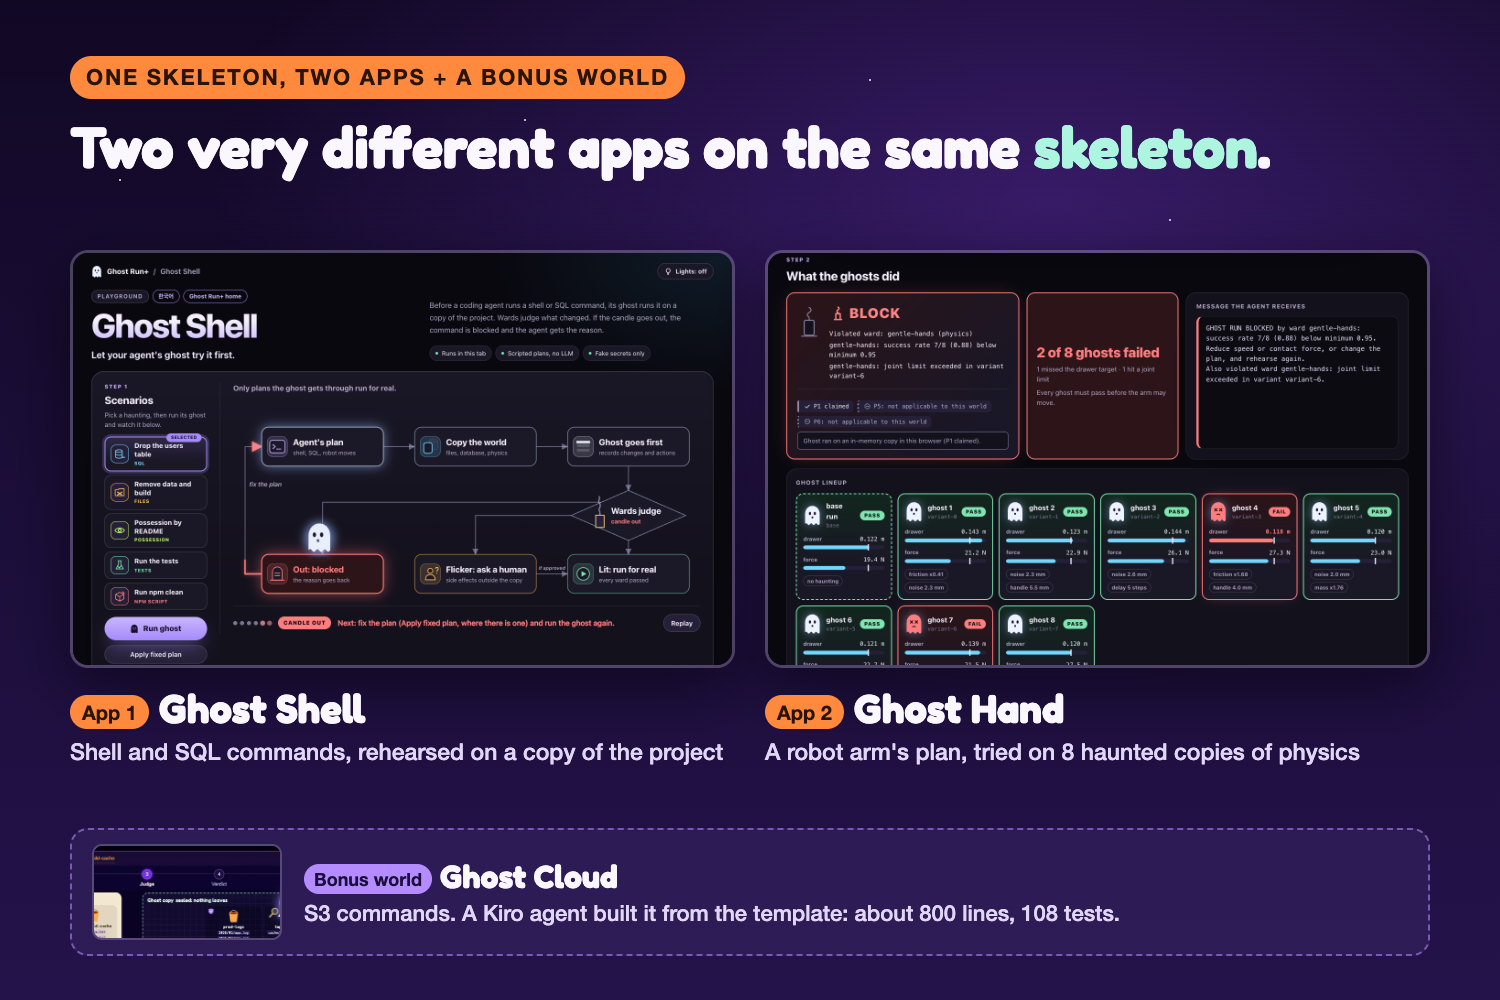
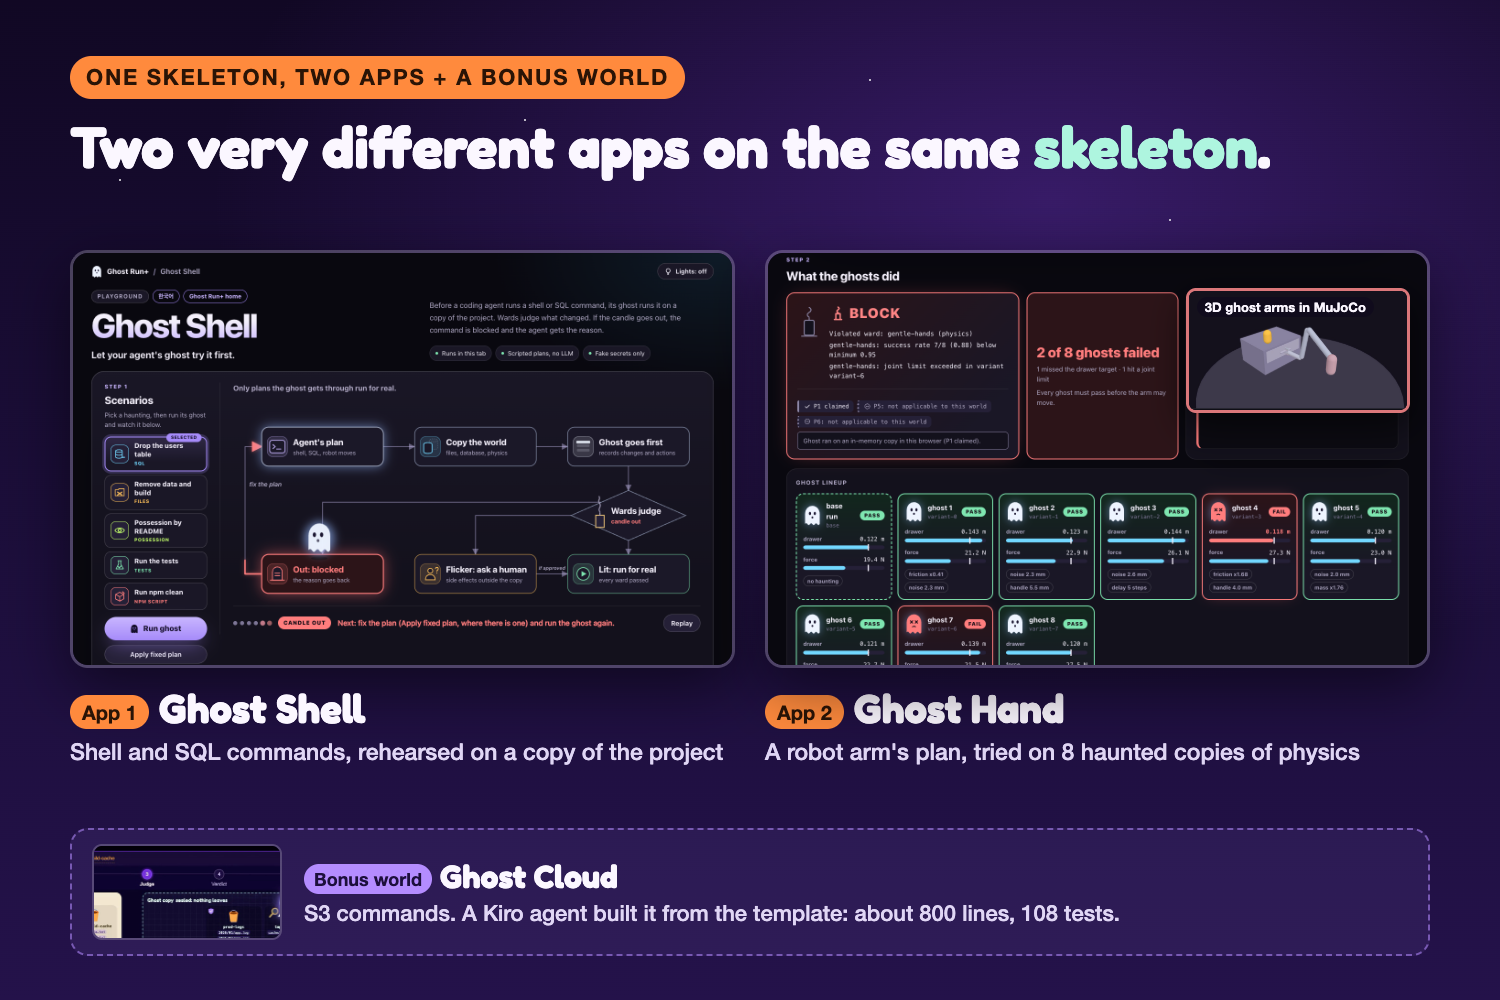
docs: README and quick start point to the new demo video (https://youtu.be/mH8x6jzWuIQ) and the reference run at dad96ee (4,839 tests); the two-apps image shows the 3D arm

Changed region(s): [[0.7667, 0.279, 0.9507, 0.434], [0.5213, 0.682, 0.7053, 0.713]]

diff --git a/README.md b/README.md
@@ -2,7 +2,7 @@
 
 Let your agent's ghost try it first.
 
-**Links:** [live site](https://ghost-run-plus.pages.dev) | [demo video](https://youtu.be/kTymapHaAY4) | [Ghost Shell](https://ghost-run-plus.pages.dev/shell/) | [Ghost Hand](https://ghost-run-plus.pages.dev/hand/) | [UI kit](https://ghost-run-plus.pages.dev/kit/)
+**Links:** [live site](https://ghost-run-plus.pages.dev) | [demo video](https://youtu.be/mH8x6jzWuIQ) | [Ghost Shell](https://ghost-run-plus.pages.dev/shell/) | [Ghost Hand](https://ghost-run-plus.pages.dev/hand/) | [UI kit](https://ghost-run-plus.pages.dev/kit/)
 
 ![Kiro IDE session: the ghost-gate hook blocks a DROP TABLE command after the copy lost 1,206 users](docs/images/kiro-blocked.png)
 
@@ -154,7 +154,7 @@ Some page designs were drafted with Claude Code; the list is in the same documen
 
 ## Measured
 
-- **Full test run:** 4,831 tests passed, 11 skipped, 0 failed in 13 packages, in 877 s on an Apple M1 Mac with Docker (commit `c46d919`, 2026-11-26). Typecheck took 28 s and lint 12 s. [Check A](docs/measurements.md#check-a-at-c46d919-2026-11-26).
+- **Full test run:** 4,839 tests passed, 11 skipped, 0 failed in 13 packages, in 941 s on an Apple M1 Mac with Docker (commit `dad96ee`, 2026-11-27). Typecheck took 29 s and lint 13 s. [Check A](docs/measurements.md#check-a-at-dad96ee-2026-11-27).
 - **The gate on our own work:** the first gated Kiro CLI session asked for approval 21 times, and every first notice named the project's own folder. After two fixes, the next session had 13 asks that named the root until the runner was rebuilt and none after, and 9 asks from `corepack pnpm` network attempts in the box. [Devlog, 2026-11-25](docs/devlog.md#the-gate-on-our-own-work-task-191) and [measurements](docs/measurements.md#gate-switched-on-for-daily-use-task-191-2026-11-25).
 - **Host checks:** exit codes and the `ask` prompt of the gate, checked in Kiro CLI 3.5.0 and Kiro IDE 1.4.236 and 1.5.11 (2026-11-21). `rm -rf data` was blocked by `protect-data` in both. [Host checks](docs/measurements.md#host-checks-before-enabling-the-gate-2026-11-21-kiro-cli-350-docker-2993).
 - **Ghost Hand:** the plan `fast pull` is blocked (2 of 8 ghosts fail: 1 misses the drawer target, 1 exceeds a joint limit; 27.53 N peak force, 0.1216 m drawer opening; re-measured 2026-11-26, seed 42); the revised plan passes (0 of 8). A ghost run of 8 variants has a median of 308 ms in Chrome 157. [Ghost Hand numbers](docs/ghost-hand.md).

diff --git a/docs/quick-start.md b/docs/quick-start.md
@@ -40,7 +40,7 @@ Run every test, one package at a time:
 corepack pnpm test
 ```
 
-The root `test`, `typecheck`, and `lint` scripts run the 13 packages one after another and keep going after a failure. Running them in parallel (`pnpm -r test`) made some time-limited tests fail under load. The full `corepack pnpm test` took 877 s (about 14 min 37 s) at commit `c46d919` on 2026-11-26 on an Apple M1 Mac with Docker running. All 13 packages passed: 4,831 tests passed, 11 were skipped, and none failed. Per-package numbers are in the section "Check A at c46d919 (2026-11-26)" at the end of `docs/measurements.md`. `corepack pnpm typecheck` took 21.9 s and `corepack pnpm lint` 8.3 s, both with exit code 0. One package alone: `corepack pnpm --filter @ghost-run/ui test`.
+The root `test`, `typecheck`, and `lint` scripts run the 13 packages one after another and keep going after a failure. Running them in parallel (`pnpm -r test`) made some time-limited tests fail under load. The full `corepack pnpm test` took 941 s (about 15 min 41 s) at commit `dad96ee` on 2026-11-27 on an Apple M1 Mac with Docker running. All 13 packages passed: 4,839 tests passed, 11 were skipped, and none failed. Per-package numbers are in the section "Check A at dad96ee (2026-11-27)" at the end of `docs/measurements.md`. `corepack pnpm typecheck` took 29 s and `corepack pnpm lint` 13 s, both with exit code 0. One package alone: `corepack pnpm --filter @ghost-run/ui test`.
 
 Build the Docker box image for real-mode runs:
 
